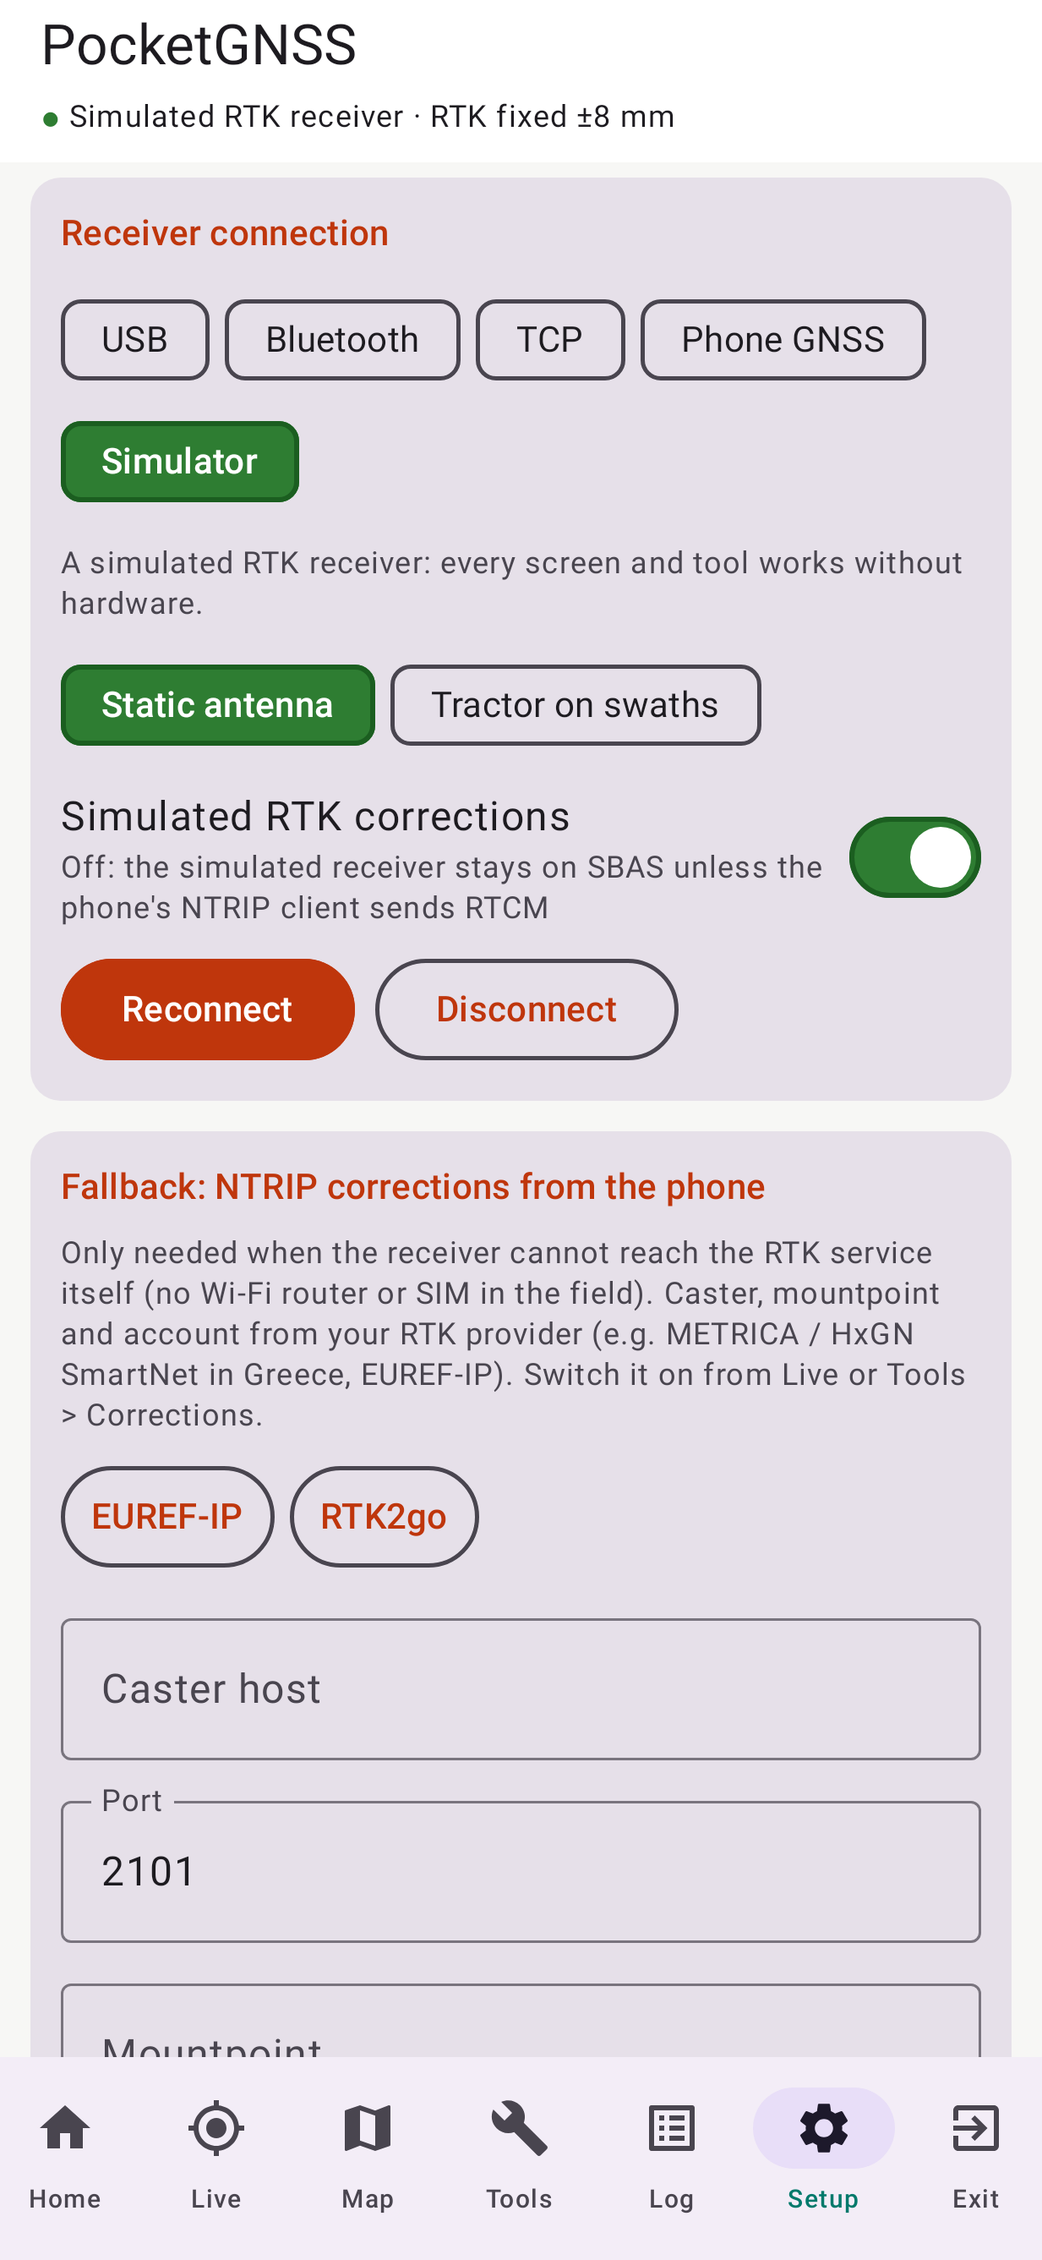
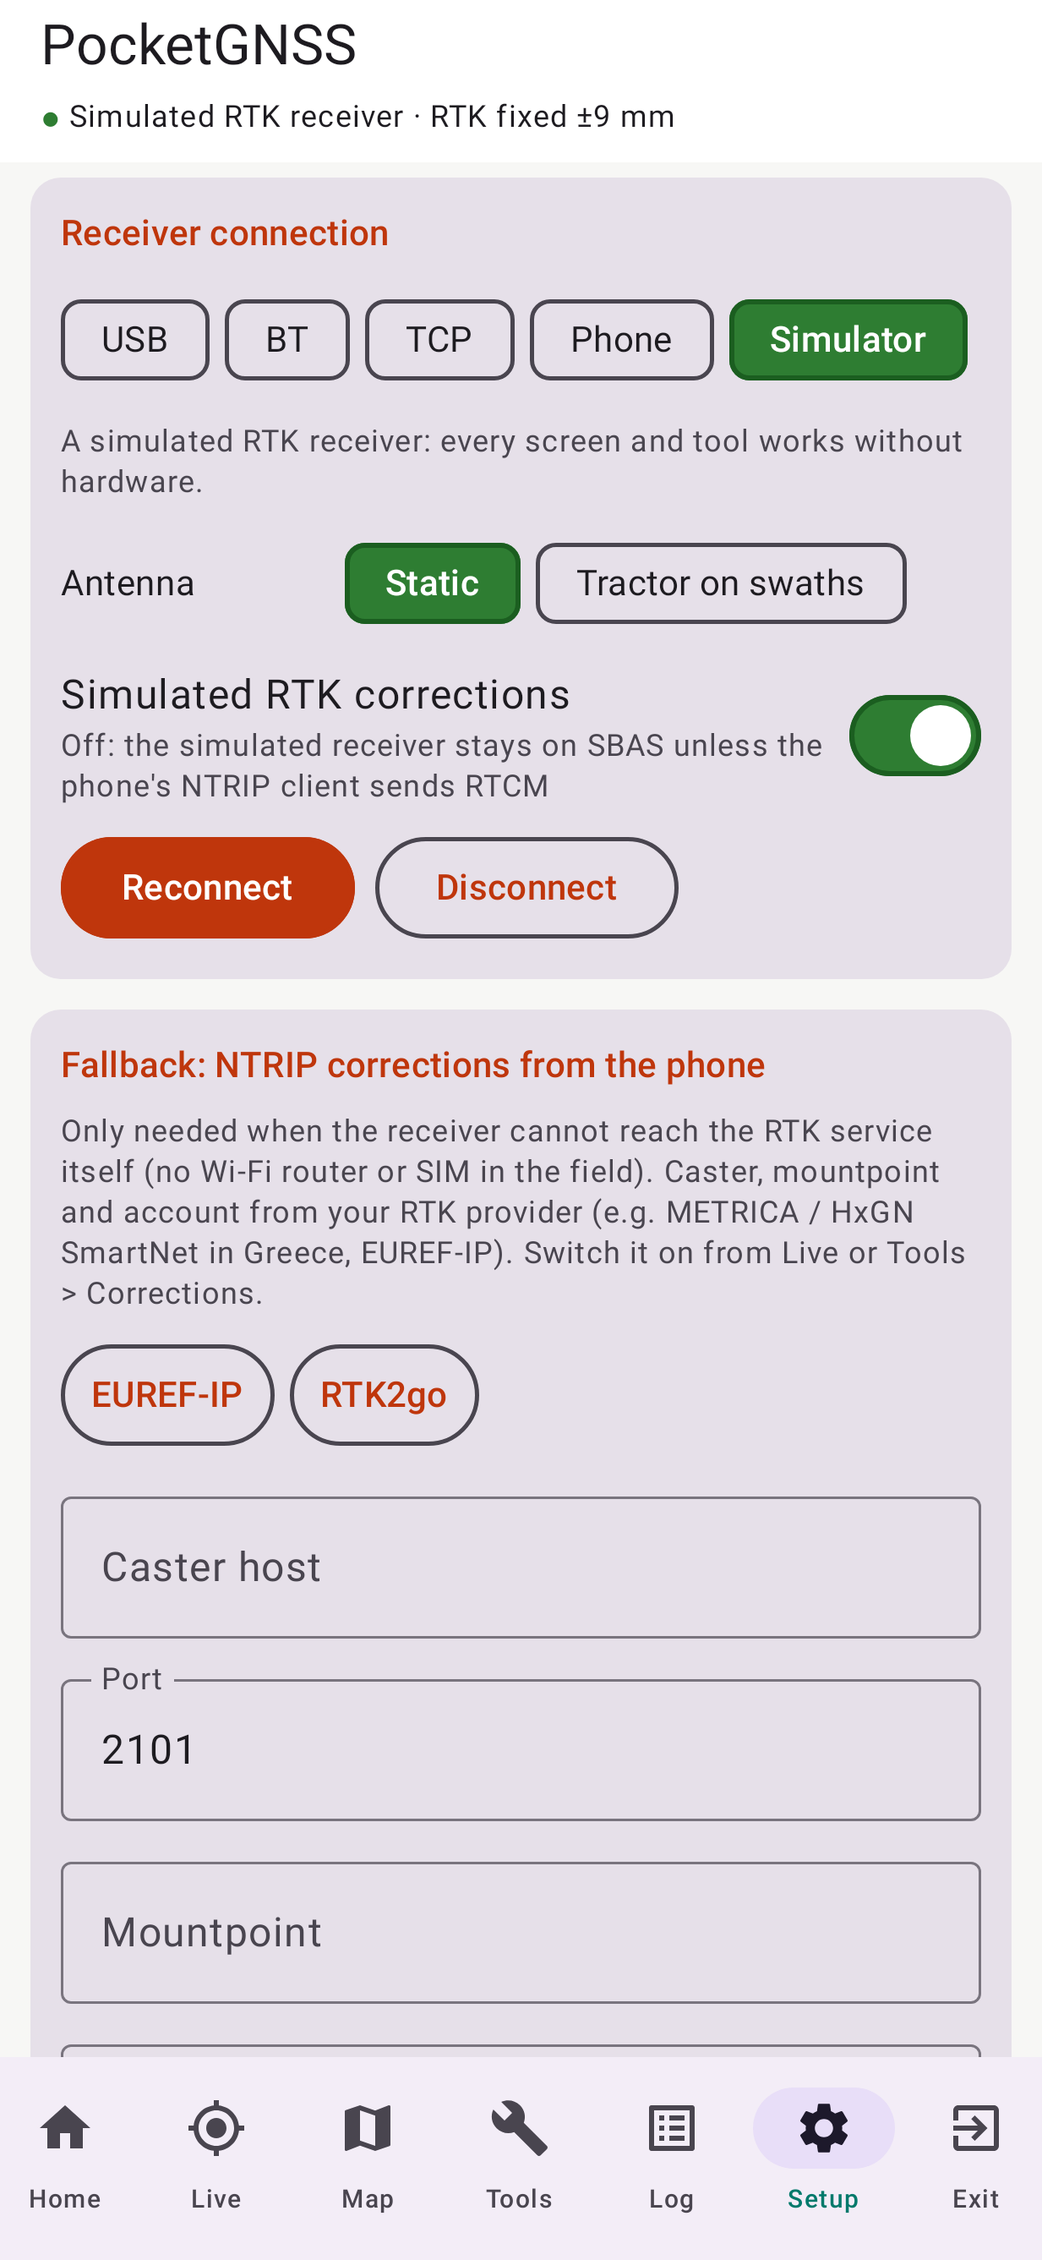
v 1.1.1

diff --git a/app/src/main/java/com/rfsat/pocketgnss/ui/map/RtkMap.kt b/app/src/main/java/com/rfsat/pocketgnss/ui/map/RtkMap.kt
@@ -51,12 +51,19 @@ object MapStyles {
 }
 """
     private val STREET = raster("https://tile.openstreetmap.org/{z}/{x}/{y}.png", "© OpenStreetMap contributors")
+    // Esri imagery is sparse above z18 in rural areas: deeper zooms enlarge z18 tiles instead of fetching blank ones.
     private val SATELLITE = raster("https://server.arcgisonline.com/ArcGIS/rest/services/World_Imagery/MapServer/tile/{z}/{y}/{x}",
-        "© Esri, Maxar, Earthstar Geographics")
+        "© Esri, Maxar, Earthstar Geographics", 18)
     private val TERRAIN = raster("https://a.tile.opentopomap.org/{z}/{x}/{y}.png", "© OpenTopoMap (CC-BY-SA)", 17)
 
     fun styleFor(l: MapLayer) = when (l) { MapLayer.STREET -> STREET; MapLayer.SATELLITE -> SATELLITE; MapLayer.TERRAIN -> TERRAIN }
 }
+
+/**
+ * Zoom used when the app moves the camera (first view, fit, recenter): every base layer has tiles there
+ * (OpenTopoMap stops at 17). The user can still zoom in further; MapLibre then enlarges the deepest tiles.
+ */
+private const val VIEW_ZOOM = 17.0
 
 private const val TRACK_SRC = "r-track"; private const val TRACK_LYR = "r-track-l"
 private const val PTS_SRC = "r-pts"; private const val PTS_LYR = "r-pts-l"; private const val PTS_LBL = "r-pts-t"
@@ -91,6 +98,8 @@ fun RtkMap(
     val styleHolder = remember { mutableStateOf<Style?>(null) }
     val loadedLayer = remember { mutableStateOf<MapLayer?>(null) }
     val didInitial = remember { mutableStateOf(false) }
+    // True once the camera has shown real data; until then the first position that arrives is centred once.
+    val placed = remember { mutableStateOf(false) }
     val lastFit = remember { mutableStateOf(fitKey) }
     val lastRecenter = remember { mutableStateOf(recenterKey) }
     val currentPoints = remember { mutableStateOf(points) }
@@ -128,7 +137,10 @@ fun RtkMap(
                 m.setStyle(Style.Builder().fromJson(MapStyles.styleFor(layer))) { style ->
                     styleHolder.value = style; loadedLayer.value = layer
                     ensureLayers(style); updateData(style, track, points, position, base, target)
-                    if (!didInitial.value) { fitCamera(m, track, points, position, false); didInitial.value = true }
+                    if (!didInitial.value) {
+                        fitCamera(m, track, points, position, false); didInitial.value = true
+                        placed.value = track.isNotEmpty() || points.isNotEmpty() || position != null
+                    }
                 }
             }
         } else {
@@ -138,10 +150,14 @@ fun RtkMap(
                     ensureLayers(style); updateData(style, track, points, position, base, target)
                 }
             } else styleHolder.value?.let { updateData(it, track, points, position, base, target) }
+            if (!placed.value && didInitial.value && position != null) {
+                map.moveCamera(CameraUpdateFactory.newLatLngZoom(LatLng(position.latitude, position.longitude), VIEW_ZOOM))
+                placed.value = true
+            }
             if (fitKey != lastFit.value) { fitCamera(map, track, points, position, true); lastFit.value = fitKey }
             if (recenterKey != lastRecenter.value) {
                 position?.let { map.animateCamera(CameraUpdateFactory.newCameraPosition(CameraPosition.Builder()
-                    .target(LatLng(it.latitude, it.longitude)).zoom(19.0).build())) }
+                    .target(LatLng(it.latitude, it.longitude)).zoom(VIEW_ZOOM).build())) }
                 lastRecenter.value = recenterKey
             } else if (follow && position != null) {
                 map.easeCamera(CameraUpdateFactory.newLatLng(LatLng(position.latitude, position.longitude)), 300)
@@ -202,9 +218,14 @@ private fun updateData(style: Style, track: List<TrackPoint>, points: List<Surve
 private fun fitCamera(map: MapLibreMap, track: List<TrackPoint>, points: List<SurveyPoint>, pos: GnssFix?, animate: Boolean) {
     val pts = track.map { LatLng(it.latitude, it.longitude) } + points.map { LatLng(it.latitude, it.longitude) } +
         listOfNotNull(pos?.let { LatLng(it.latitude, it.longitude) })
+    val bounds = if (pts.distinct().size >= 2) LatLngBounds.Builder().apply { pts.forEach { include(it) } }.build() else null
+    // A static RTK track spans centimetres: fitting it would zoom far past any tile level, so small extents use VIEW_ZOOM.
+    val small = bounds == null || com.rfsat.pocketgnss.protocol.Geo.distance(bounds.latitudeSouth, bounds.longitudeWest,
+        bounds.latitudeNorth, bounds.longitudeEast) < 400.0
     val update = when {
-        pts.distinct().size >= 2 -> CameraUpdateFactory.newLatLngBounds(LatLngBounds.Builder().apply { pts.forEach { include(it) } }.build(), 120)
-        pts.isNotEmpty() -> CameraUpdateFactory.newLatLngZoom(pts.first(), 18.0)
+        bounds != null && !small -> CameraUpdateFactory.newLatLngBounds(bounds, 120)
+        bounds != null -> CameraUpdateFactory.newLatLngZoom(bounds.center, VIEW_ZOOM)
+        pts.isNotEmpty() -> CameraUpdateFactory.newLatLngZoom(pts.first(), VIEW_ZOOM)
         else -> CameraUpdateFactory.newLatLngZoom(LatLng(48.0, 10.0), 3.0)
     }
     if (animate) map.animateCamera(update) else map.moveCamera(update)

diff --git a/app/src/main/java/com/rfsat/pocketgnss/ui/Controls.kt b/app/src/main/java/com/rfsat/pocketgnss/ui/Controls.kt
@@ -6,6 +6,7 @@ import androidx.compose.foundation.layout.Column
 import androidx.compose.foundation.layout.Row
 import androidx.compose.foundation.layout.fillMaxWidth
 import androidx.compose.foundation.layout.padding
+import androidx.compose.foundation.layout.width
 import androidx.compose.foundation.text.BasicText
 import androidx.compose.foundation.text.KeyboardActions
 import androidx.compose.foundation.text.KeyboardOptions
@@ -134,10 +135,33 @@ fun <T> Picker(label: String, options: List<T>, selected: T, text: (T) -> String
 /** Key and value; live = true keeps a changing value on one line so rows below never jump. */
 @Composable
 fun KeyValue(key: String, value: String, live: Boolean = false, valueColor: Color = Color.Unspecified) {
+    val keyWidth = LocalKeyWidth.current
     Row(Modifier.fillMaxWidth()) {
-        Text(key, Modifier.weight(0.42f), style = MaterialTheme.typography.bodySmall, color = MaterialTheme.colorScheme.onSurfaceVariant)
-        if (live) FitText(value, Modifier.weight(0.58f), MaterialTheme.typography.bodySmall, color = valueColor)
-        else Text(value, Modifier.weight(0.58f), style = MaterialTheme.typography.bodySmall, color = valueColor)
+        val keyMod = if (keyWidth != null) Modifier.width(keyWidth).padding(end = 8.dp) else Modifier.weight(0.42f)
+        val valMod = if (keyWidth != null) Modifier.weight(1f) else Modifier.weight(0.58f)
+        Text(key, keyMod, style = MaterialTheme.typography.bodySmall, color = MaterialTheme.colorScheme.onSurfaceVariant)
+        if (live) FitText(value, valMod, MaterialTheme.typography.bodySmall, color = valueColor)
+        else Text(value, valMod, style = MaterialTheme.typography.bodySmall, color = valueColor)
+    }
+}
+
+/**
+ * Width of the label column of [KeyValue] rows: a fixed width so values start right after their labels and use the
+ * rest of the line. A screen can provide null to split rows 42 / 58 % instead.
+ */
+val LocalKeyWidth = androidx.compose.runtime.compositionLocalOf<androidx.compose.ui.unit.Dp?> { KEY_WIDTH }
+
+/** Label column width used app-wide: fits labels such as "Receiver version"; longer ones wrap. */
+val KEY_WIDTH = 112.dp
+
+/** A labelled single-choice row: the label in the label column, the options as chips beside it (one line). */
+@Composable
+fun <T> ChoiceRow(label: String, options: List<Pair<T, String>>, selected: T, onSelect: (T) -> Unit) {
+    Row(Modifier.fillMaxWidth(), verticalAlignment = Alignment.CenterVertically) {
+        Text(label, Modifier.width(LocalKeyWidth.current ?: KEY_WIDTH).padding(end = 8.dp), style = MaterialTheme.typography.bodyMedium)
+        Row(horizontalArrangement = Arrangement.spacedBy(6.dp)) {
+            for ((v, text) in options) ChoiceChip(selected == v, text, { onSelect(v) })
+        }
     }
 }
 

diff --git a/app/src/main/java/com/rfsat/pocketgnss/ui/SetupScreen.kt b/app/src/main/java/com/rfsat/pocketgnss/ui/SetupScreen.kt
@@ -93,10 +93,8 @@ fun SetupScreen(engine: GnssEngine, onReconnect: () -> Unit, onNeedLocation: () 
                 }
                 LinkKind.PHONE -> {}
                 LinkKind.SIMULATOR -> {
-                    FlowRow(horizontalArrangement = Arrangement.spacedBy(6.dp)) {
-                        ChoiceChip(s.simMotion == SimMotion.STATIC, stringResource(R.string.sim_static), { upd { it.copy(simMotion = SimMotion.STATIC) } })
-                        ChoiceChip(s.simMotion == SimMotion.SWATHS, stringResource(R.string.sim_swaths), { upd { it.copy(simMotion = SimMotion.SWATHS) } })
-                    }
+                    ChoiceRow(stringResource(R.string.sim_motion), listOf(SimMotion.STATIC to stringResource(R.string.sim_static),
+                        SimMotion.SWATHS to stringResource(R.string.sim_swaths)), s.simMotion) { v -> upd { it.copy(simMotion = v) } }
                     SwitchRow(stringResource(R.string.sim_corrections), s.simCorrections, { v -> upd { it.copy(simCorrections = v) } }, stringResource(R.string.sim_corrections_help))
                 }
             }
@@ -156,14 +154,10 @@ fun SetupScreen(engine: GnssEngine, onReconnect: () -> Unit, onNeedLocation: () 
         }
 
         Section(stringResource(R.string.setup_display)) {
-            FlowRow(horizontalArrangement = Arrangement.spacedBy(6.dp)) {
-                ChoiceChip(s.coordFormat == CoordFormat.DECIMAL, stringResource(R.string.disp_decimal), { upd { it.copy(coordFormat = CoordFormat.DECIMAL) } })
-                ChoiceChip(s.coordFormat == CoordFormat.DMS, stringResource(R.string.disp_dms), { upd { it.copy(coordFormat = CoordFormat.DMS) } })
-            }
-            FlowRow(horizontalArrangement = Arrangement.spacedBy(6.dp)) {
-                ChoiceChip(s.heightRef == HeightRef.MSL, stringResource(R.string.disp_msl), { upd { it.copy(heightRef = HeightRef.MSL) } })
-                ChoiceChip(s.heightRef == HeightRef.ELLIPSOID, stringResource(R.string.disp_ellipsoid), { upd { it.copy(heightRef = HeightRef.ELLIPSOID) } })
-            }
+            ChoiceRow(stringResource(R.string.disp_coords), listOf(CoordFormat.DECIMAL to stringResource(R.string.disp_decimal),
+                CoordFormat.DMS to stringResource(R.string.disp_dms)), s.coordFormat) { v -> upd { it.copy(coordFormat = v) } }
+            ChoiceRow(stringResource(R.string.disp_height), listOf(HeightRef.MSL to stringResource(R.string.disp_msl),
+                HeightRef.ELLIPSOID to stringResource(R.string.disp_ellipsoid)), s.heightRef) { v -> upd { it.copy(heightRef = v) } }
             SwitchRow(stringResource(R.string.disp_screen_on), s.keepScreenOn, { v -> upd { it.copy(keepScreenOn = v) } })
         }
     }

diff --git a/app/src/main/java/com/rfsat/pocketgnss/ui/HomeScreen.kt b/app/src/main/java/com/rfsat/pocketgnss/ui/HomeScreen.kt
@@ -10,6 +10,7 @@ import androidx.compose.foundation.layout.FlowRow
 import androidx.compose.foundation.layout.Row
 import androidx.compose.foundation.layout.fillMaxWidth
 import androidx.compose.foundation.layout.padding
+import androidx.compose.foundation.layout.width
 import androidx.compose.foundation.rememberScrollState
 import androidx.compose.foundation.shape.RoundedCornerShape
 import androidx.compose.foundation.verticalScroll
@@ -47,6 +48,8 @@ fun HomeScreen(engine: GnssEngine, onOpenTab: (Tab) -> Unit, onReconnect: () -> 
     fun openUrl(url: String) = try { context.startActivity(Intent(Intent.ACTION_VIEW, Uri.parse(url))) } catch (_: Exception) {}
     val muted = MaterialTheme.colorScheme.onSurfaceVariant
 
+    // Short labels: a fixed label column (fits "Receiver version") instead of 42 % of the width.
+    androidx.compose.runtime.CompositionLocalProvider(LocalKeyWidth provides HOME_KEY_WIDTH) {
     Column(Modifier.verticalScroll(rememberScrollState()).padding(horizontal = 16.dp, vertical = 12.dp), verticalArrangement = Arrangement.spacedBy(10.dp)) {
         Column(Modifier.fillMaxWidth(), horizontalAlignment = Alignment.CenterHorizontally) {
             Text(stringResource(R.string.app_name), fontWeight = FontWeight.Bold, color = MaterialTheme.colorScheme.primary, fontSize = 28.sp)
@@ -123,7 +126,10 @@ fun HomeScreen(engine: GnssEngine, onOpenTab: (Tab) -> Unit, onReconnect: () -> 
         HorizontalDivider()
         Text(stringResource(R.string.home_ai_ack), Modifier.fillMaxWidth(), textAlign = TextAlign.Center, style = MaterialTheme.typography.bodySmall, color = muted)
     }
+    }
 }
+
+private val HOME_KEY_WIDTH = KEY_WIDTH
 
 fun sourceHelp(s: AppSettings) = when (s.source) {
     LinkKind.USB -> R.string.help_usb
@@ -136,8 +142,8 @@ fun sourceHelp(s: AppSettings) = when (s.source) {
 @Composable
 private fun LinkRow(label: String, value: String, url: String, onOpen: () -> Unit) {
     Row(Modifier.fillMaxWidth().clickable(onClick = onOpen)) {
-        Text(label, Modifier.weight(0.42f), style = MaterialTheme.typography.bodySmall, color = MaterialTheme.colorScheme.onSurfaceVariant)
-        Column(Modifier.weight(0.58f)) {
+        Text(label, Modifier.width(HOME_KEY_WIDTH).padding(end = 8.dp), style = MaterialTheme.typography.bodySmall, color = MaterialTheme.colorScheme.onSurfaceVariant)
+        Column(Modifier.weight(1f)) {
             Text(value, style = MaterialTheme.typography.bodySmall, fontWeight = FontWeight.SemiBold)
             Text(url, style = MaterialTheme.typography.bodySmall, color = MaterialTheme.colorScheme.secondary)
         }

diff --git a/app/src/main/java/com/rfsat/pocketgnss/ui/LiveScreen.kt b/app/src/main/java/com/rfsat/pocketgnss/ui/LiveScreen.kt
@@ -122,13 +122,16 @@ fun LiveScreen(engine: GnssEngine, onReconnect: () -> Unit) {
                 val dist = f?.let { Geo.distance(it.latitude, it.longitude, g.latitude, g.longitude) }
                 KeyValue(stringResource(R.string.live_base), stringResource(R.string.live_base_value, b.stationId, dist?.let { formatDistance(it) } ?: "—"), live = true)
             }
-            FlowRow(horizontalArrangement = Arrangement.spacedBy(8.dp)) {
+            // One row: three equal buttons with short labels; the colour shows the state.
+            Row(Modifier.fillMaxWidth(), horizontalArrangement = Arrangement.spacedBy(6.dp)) {
                 ToggleButton(on = s.ntripEnabled, label = stringResource(if (s.ntripEnabled) R.string.live_ntrip_on else R.string.live_ntrip_off),
-                    onClick = { engine.setNtrip(!s.ntripEnabled) }, enabled = phoneChip.not() && (s.ntrip.usable || s.ntripEnabled))
-                ToggleButton(on = rec.active, label = stringResource(if (rec.active) R.string.log_recording_on else R.string.log_recording_off),
-                    onClick = { if (rec.active) engine.stopRecording() else engine.startRecording() })
-                ActionButton(onClick = { engine.markPoint(engine.nextPointName())?.let { engine.toast(it.name) } }, enabled = f != null) {
-                    Text(stringResource(R.string.live_mark))
+                    onClick = { engine.setNtrip(!s.ntripEnabled) }, enabled = phoneChip.not() && (s.ntrip.usable || s.ntripEnabled),
+                    modifier = Modifier.weight(1f), narrow = true)
+                ToggleButton(on = rec.active, label = stringResource(if (rec.active) R.string.live_rec_on else R.string.live_rec_off),
+                    onClick = { if (rec.active) engine.stopRecording() else engine.startRecording() }, modifier = Modifier.weight(1f), narrow = true)
+                ActionButton(onClick = { engine.markPoint(engine.nextPointName())?.let { engine.toast(it.name) } }, enabled = f != null,
+                    modifier = Modifier.weight(1f), narrow = true) {
+                    Text(stringResource(R.string.live_mark_short), maxLines = 1, softWrap = false)
                 }
             }
             if (phoneChip) Text(stringResource(R.string.live_phone_no_rtk), style = MaterialTheme.typography.bodySmall, color = muted)

diff --git a/app/src/main/java/com/rfsat/pocketgnss/ui/Buttons.kt b/app/src/main/java/com/rfsat/pocketgnss/ui/Buttons.kt
@@ -51,6 +51,8 @@ fun ToggleButton(
     enabled: Boolean = true,
     icon: ImageVector? = null,
     compact: Boolean = false,
+    /** Narrow side padding at full height, for several buttons sharing one row. */
+    narrow: Boolean = false,
 ) {
     val bg = if (on) OnGreen else OffRed
     val edge = if (on) OnGreenEdge else OffRedEdge
@@ -61,10 +63,15 @@ fun ToggleButton(
             disabledContainerColor = bg.copy(alpha = 0.40f), disabledContentColor = Color.White.copy(alpha = 0.85f),
         ),
         border = BorderStroke(2.dp, if (enabled) edge else edge.copy(alpha = 0.6f)),
-        contentPadding = if (compact) PaddingValues(horizontal = 10.dp, vertical = 2.dp) else ButtonDefaults.ContentPadding,
+        contentPadding = when {
+            compact -> PaddingValues(horizontal = 10.dp, vertical = 2.dp)
+            narrow -> PaddingValues(horizontal = 8.dp, vertical = 8.dp)
+            else -> ButtonDefaults.ContentPadding
+        },
     ) {
         if (icon != null) { Icon(icon, null, Modifier.size(18.dp)); Spacer(Modifier.width(6.dp)) }
-        Text(label, fontWeight = FontWeight.SemiBold, style = if (compact) MaterialTheme.typography.labelMedium else LocalTextStyle.current)
+        Text(label, fontWeight = FontWeight.SemiBold, style = if (compact) MaterialTheme.typography.labelMedium else LocalTextStyle.current,
+            maxLines = 1, softWrap = false)
     }
 }
 
@@ -76,6 +83,7 @@ fun ActionButton(
     enabled: Boolean = true,
     emphasis: Boolean = false,
     compact: Boolean = false,
+    narrow: Boolean = false,
     content: @Composable RowScope.() -> Unit,
 ) {
     val cs = MaterialTheme.colorScheme
@@ -92,7 +100,11 @@ fun ActionButton(
             disabledContainerColor = cs.onSurface.copy(alpha = 0.06f),
             disabledContentColor = cs.onSurface.copy(alpha = 0.50f),
         ),
-        contentPadding = if (compact) PaddingValues(horizontal = 12.dp, vertical = 4.dp) else ButtonDefaults.ContentPadding,
+        contentPadding = when {
+            compact -> PaddingValues(horizontal = 12.dp, vertical = 4.dp)
+            narrow -> PaddingValues(horizontal = 8.dp, vertical = 8.dp)
+            else -> ButtonDefaults.ContentPadding
+        },
         content = content,
     )
 }

diff --git a/CHANGELOG.md b/CHANGELOG.md
@@ -7,6 +7,9 @@ Versioning: 1.MINOR.PATCH. The minor number rises with new features, the patch n
 Only `appVersion` in app/build.gradle.kts is edited; the Play version code is derived from it
 (1*10000 + MINOR*100 + PATCH).
 
+## 1.1.1 (build 10101)
+More compact screens: details start right after their labels, the connection choices fit one row (BT for Bluetooth), display options and the Live correction buttons take one row each. The map opens at a zoom where all map layers have tiles, centres on the first position, and no longer zooms past the tiles when fitting a static track.
+
 ## 1.1.0 (build 10100)
 The phone's own GNSS can now be used as a source, without the RTK receiver. The Log tab shows the receiver's NMEA messages live, with filters, pause, copy and share, without saving a file. The Live tab has a Disconnect button, and the Home shortcuts no longer look like a main action.
 

diff --git a/README.md b/README.md
@@ -20,7 +20,7 @@ Two hardware versions exist and the app supports both (Setup > Receiver version)
 In both, the receiver applies the corrections itself; the app reads the corrected position. How to set up each route,
 with the D3.5 timings and availability, is in **[docs/rtk-connectivity.md](docs/rtk-connectivity.md)**.
 
-RFSAT Limited. Version 1.1.0 (build 10100).
+RFSAT Limited. Version 1.1.1 (build 10101).
 
 ## Connections
 
